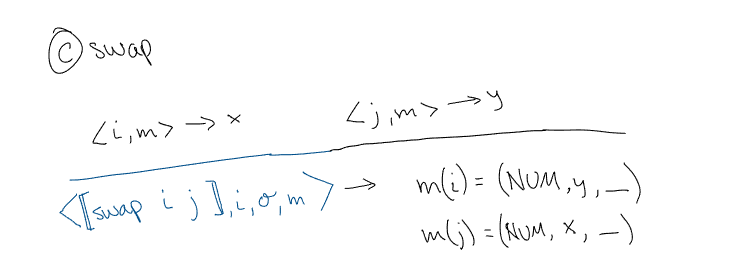
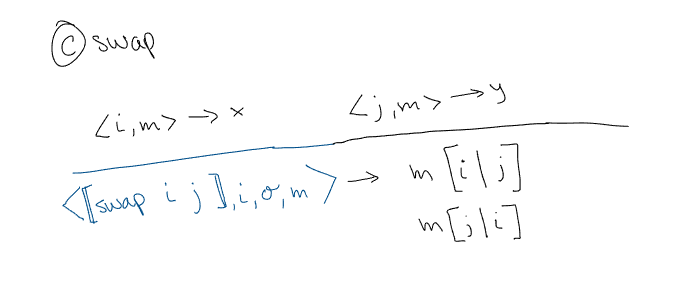
update 9b

diff --git a/hw3.md b/hw3.md
@@ -142,11 +142,15 @@ _______________________
 repeat c until be : cmd
 ```
 
+![Q9a Answer](./assets/hw3/9A.png)
+
 c.
 
 ```
 swap (id₁,id₂) : cmd      id₁,id₂∈Id
 ```
+
+![Q9b Answer](./assets/hw3/9b.png)
 
 <h3>10. Problem 8.6.6 in Slonneger and Kurtz -
 
